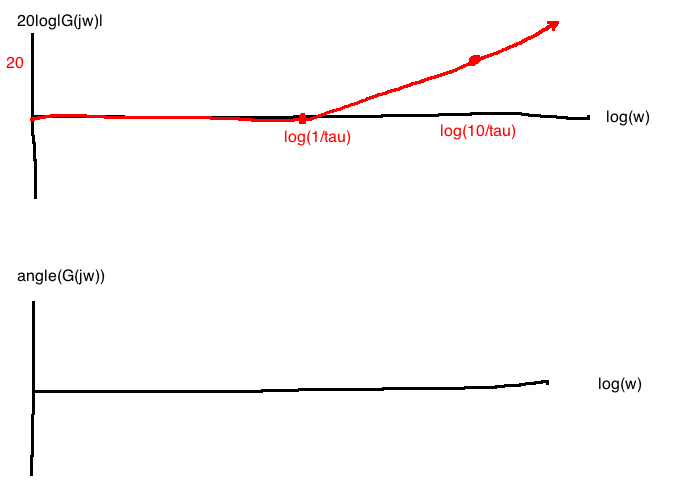
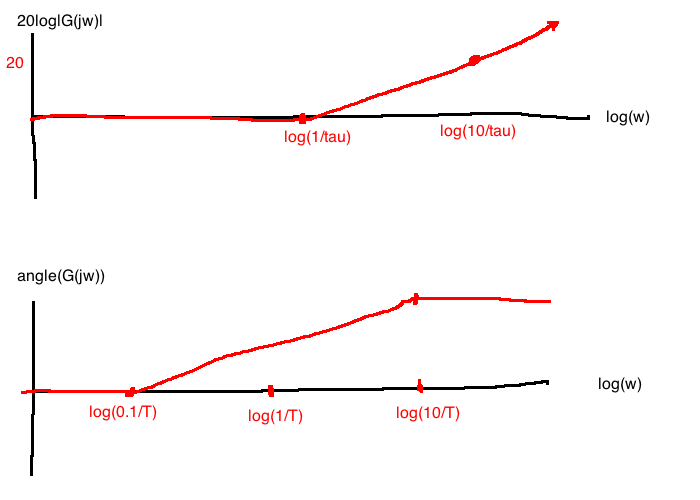
Add more bode plots

diff --git a/se380/04 state response.md b/se380/04 state response.md
@@ -298,5 +298,40 @@ Approximations for sketching:
 1. For $\omega \lt \frac{1}{\tau}$,  $\Im(G(j\omega)) \approx 0 \Rightarrow \forall \omega \lt \frac{1}{\tau}, \quad 20\log|G(j\omega)| \approx 20\log|1|=0$
 2. For $\omega \ge \frac{1}{\tau}$, $\Re(G) \gt \gt \Im(G) \Rightarrow 
 \omega \ge \frac{1}{\tau}, \quad 20\log|G(j\omega)| \approx 20\log|j \tau \omega|$
+3. For $\omega \lt\lt \frac{1}{\tau}$, $\angle G(j\omega)\approx \angle 0j+1 = 0$ ($\omega \lt\lt \frac{1}{\tau}$ means $\omega \le \frac{0.1}{\tau}$)
+3. For $\omega \gt\gt \frac{1}{\tau}$, $\angle G(j\omega)\approx \angle j\omega\tau = \\frac{\pi}{2}$ ($\omega \gt\gt \frac{1}{\tau}$ means $\omega \ge \frac{10}{\tau}$)
+4. Linear interpolation between $\frac{0.1}{\tau}$ and $\frac{10}{\tau}$
 
 <img src="img/firstorderbode.png" />
+
+Sub-case: $G(s) = \tau s - 1$ (zero at $s=\frac{1}{\tau}$)
+
+Polar plot:
+<img src="img/firstorderpolarsubcase.png" />
+- From the polar plot, the magnitude Bode plot is unchanged
+- for the phase plot, start at $\pi$ for small $\omega$ and goes to $\frac{\pi}{2}$ as $\omega \rightarrow \infty$
+
+<img src="img/firstordersubcasebode.png" />
+
+e.g. $G(s) = \frac{100}{s+10} = \frac{100}{10} \cdot \frac{1}{\frac{s}{10}+1} = 10 \frac{1}{\frac{s}{10}+1}$
+
+Frequency response: $G(j\omega)=10\frac{1}{\frac{j\omega}{10}+1}$
+Magnitude: $20\log|G(j\omega)|=\underbrace{20\log10}_{A}-\underbrace{20\log\left|\frac{j\omega}{10}+1\right|}_B$
+Phase: $\angle G(j\omega) = \underbrace{\angle 10}_A - \underbrace{\angle \frac{j\omega}{10}+1}_B$
+
+<img src="img/bodeplotex.png" />
+
+The **bandwidth** of the above system is the smallest frequency $\omega_{BW}$ such that:
+$$|G(j\omega_{BW})|=\frac{1}{\sqrt{2}}|G(0)|$$
+In dB: $20\log|G(0)|-20\log|G(j\omega)|=3dB$
+
+From the Bode plot, $\omega_{BW}=1.0 \text{ rad/s}$
+
+e.g. $G(s)=s^n$
+- When $n=1$: $G(j\omega)=j\omega$
+- When $n=2$: $G(j\omega)=-\omega^2$
+- When $n=3$: $G(j\omega)=-j\omega^3$
+- When $n=4$: $G(j\omega)=\omega^4$
+
+<img src="img/spowerofnpolar.png" />
+<img src="img/spowerofnbode.png" />
